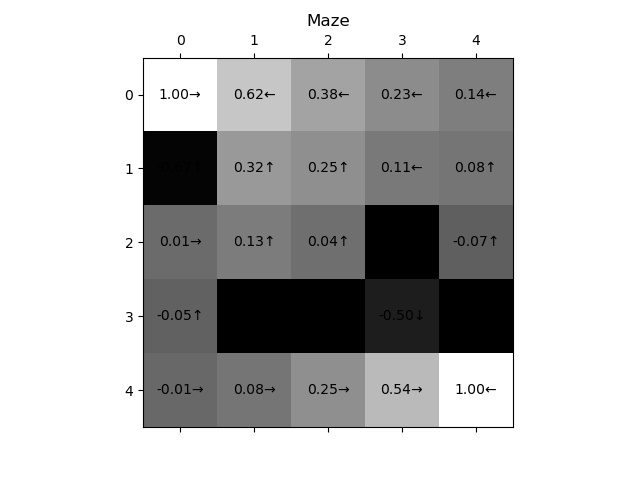
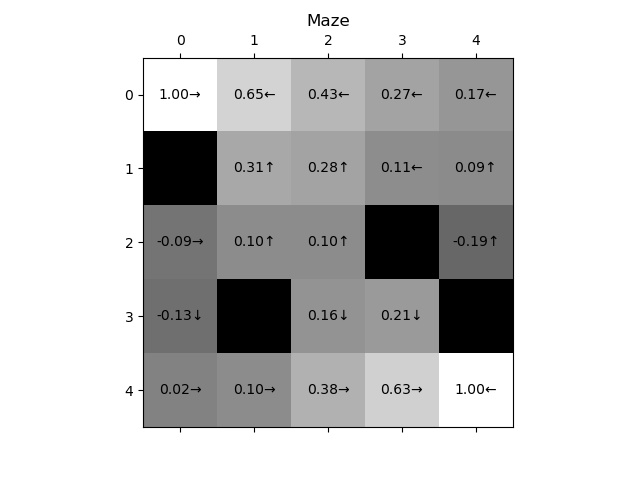
removed illegal moves and removed bugs related to local maxima

diff --git a/maze.py b/maze.py
@@ -13,10 +13,12 @@ class cardinals:
 
 class Maze:
 
-    def __init__(self, values, policy, discount_factor):
+    def __init__(self, values, policy, discount_factor, reward_val, punish_val):
         # check to see if direction is a wall
         self.values = values
         self.valuesPrev = None
+        self.reward_val = reward_val
+        self.punish_val = punish_val
 
         # initialize the policy grid to default values
         self.policyGrid = policy
@@ -27,103 +29,124 @@ class Maze:
         self.discount_factor = discount_factor
         self.iteration = 0
 
-    def getDirVal(self, direction):
-        row, col = direction
-        if (row < 0 or col < 0 or row >= self.row_len or col >= self.col_len):
-            return 0
-        else:
-            return values[row, col]
-
     # this calculates the value of an action, accounting for probability
-    # the probability of moving in the same direction as an action is .7
-    # the other directions will be .1
+    def calc_action_value_iter(self, direction, legal_dirs):
 
-    def calc_action_value_iter(self, direction, dir_vals):
-        (n_val, e_val, s_val, w_val) = dir_vals
-        if direction == cardinals.NORTH:
-            return n_val * 0.7 + e_val * 0.1 + s_val * 0.1 + w_val * 0.1
-        if direction == cardinals.EAST:
-            return n_val * 0.1 + e_val * 0.7 + s_val * 0.1 + w_val * 0.1
-        if direction == cardinals.SOUTH:
-            return n_val * 0.1 + e_val * 0.1 + s_val * 0.7 + w_val * 0.1
-        if direction == cardinals.WEST:
-            return n_val * 0.1 + e_val * 0.1 + s_val * 0.1 + w_val * 0.7
+        main_dir_val = legal_dirs[direction]
+
+        other_legal_dirs = dict(legal_dirs)
+        other_legal_dirs.pop(direction)
+        other_dir_vals = other_legal_dirs.values()
+        n_other_dirs = len(other_legal_dirs)
+
+        # probability of moving in main direction vs other directions
+        main_dir_prob = .7
+        secondary_dir_prob = .3 / n_other_dirs
+
+        other_sum = 0
+        for x in other_dir_vals:
+            other_sum = other_sum + (x * secondary_dir_prob)
+
+        return main_dir_val * main_dir_prob + other_sum
+
+    # append to a dictionary the value of a legal action
+    # also checks for validity of action
+    def get_dir_val(self, t1, direction, legal_dirs):
+        row_t1, col_t1 = t1
+        if (row_t1 < 0 or col_t1 < 0 or row_t1 >= self.row_len or col_t1 >= self.col_len):
+            # Illegal move. nothing appended
+            return legal_dirs
+        else:
+            # update the dict properly
+            legal_dirs[direction] = values[row_t1, col_t1]
+            return legal_dirs
 
     # inspect all four directions for values
     def get_dir_vals(self, row, col):
+
         north_grid = (row - 1, col)
         east_grid = (row, col + 1)
         south_grid = (row + 1, col)
         west_grid = (row, col - 1)
 
-        n_val = self.getDirVal(north_grid)
-        e_val = self.getDirVal(east_grid)
-        s_val = self.getDirVal(south_grid)
-        w_val = self.getDirVal(west_grid)
+        # track legal direction moves and return it as a dict
+        legal_dirs = dict.fromkeys(
+            [cardinals.NORTH, cardinals.EAST, cardinals.SOUTH, cardinals.WEST])
 
-        return (n_val, e_val, s_val, w_val)
+        legal_dirs = self.get_dir_val(north_grid, cardinals.NORTH, legal_dirs)
+        legal_dirs = self.get_dir_val(east_grid, cardinals.EAST, legal_dirs)
+        legal_dirs = self.get_dir_val(south_grid, cardinals.SOUTH, legal_dirs)
+        legal_dirs = self.get_dir_val(west_grid, cardinals.WEST, legal_dirs)
+
+        # elimate the Nones
+        legal_dirs = {k: v for k, v in legal_dirs.items() if v is not None}
+
+        return legal_dirs
 
     # see which direction has the max value
-    def get_best_direction(self, dir_vals):
+    def get_best_direction(self, legal_dirs):
 
-        (n_val, e_val, s_val, w_val) = dir_vals
-
-        max_val = max(n_val, e_val, s_val, w_val)
-        best_direction = None
-
-        if (max_val == n_val):
-            best_direction = cardinals.NORTH
-        if (max_val == e_val):
-            best_direction = cardinals.EAST
-        if (max_val == s_val):
-            best_direction = cardinals.SOUTH
-        if (max_val == w_val):
-            best_direction = cardinals.WEST
-
+        best_direction = max(legal_dirs, key=legal_dirs.get)
         return best_direction
 
-    def update_cell_val(self, row, col, policyIterate=False):
+    # get direction from POLICY, not values
+    def update_cell_val_by_policy(self, row, col):
 
-        # do not run the code on the reward/loss cells
-        if self.values[row, col] <= -.5 or self.values[row, col] == 1:
+        if self.values[row, col] in (self.punish_val, self.reward_val):
             return
 
-        dir_vals = self.get_dir_vals(row, col)
+        # get values in each direction based off of iterating values
+        legal_dirs = self.get_dir_vals(row, col)
 
-        if policyIterate is False:
-            best_direction = self.get_best_direction(dir_vals)
-            # update section
-            self.values[row, col] = self.calc_action_value_iter(
-                best_direction, dir_vals) * self.discount_factor
-        else:  # policyIterate is True
-            # get direction from POLICY, not values
-            # then do the action using a different cal_action-value
-            cell_policy_dir = self.policyGrid[row, col]
-            cell_val = self.calc_action_value_iter(cell_policy_dir, dir_vals)
+        # then take the action based off iterating policy
+        cell_policy_dir = self.policyGrid[row, col]
 
-            # updated the values based on the policy
-            self.values[row, col] = cell_val * self.discount_factor
+        # update values based off of iteration
+        self.values[row, col] = self.calc_action_value_iter(
+            cell_policy_dir, legal_dirs) * self.discount_factor
 
-    def check_converge(self, arr1, arr2, isValPol=False):
-        if isValPol is True:
-            if (np.array_equal(arr1, arr2)):
-                print("the policy grids are the same")
+    # update cell values based off of best value
+    def update_cell_val(self, row, col):
+        # do not run the code on the reward/loss cells
+        if self.values[row, col] in (self.punish_val, self.reward_val):
+            return
+
+        # get values of each legal direction
+        legal_dirs = self.get_dir_vals(row, col)
+
+        # return best direction
+        best_direction = self.get_best_direction(legal_dirs)
+
+        # update values based off of iteration
+        self.values[row, col] = self.calc_action_value_iter(
+            best_direction, legal_dirs) * self.discount_factor
+
+    # check convergence of policy
+    def check_converge_policy(self, arr1, arr2):
+        if (np.array_equal(arr1, arr2)):
+            print("the policy grids are the same")
+            return True
+        else:
+            print("the policy grids are NOT the same")
+            return False
+
+    # check convergence of value
+    def check_converge_values(self, arr1, arr2):
+        if arr2 is not None:
+            if (np.allclose(arr1, arr2, 0.001)):
+                print("the value grids are the same")
                 return True
             else:
-                print("the policy grids are NOT the same")
                 return False
-
-        elif (np.allclose(arr1, arr2, 0.01)):
-            print("the value grids are the same")
-            return True
         else:
             print("the value grids are NOT the same")
             return False
 
+    # value iteration main loop
     def valueIteration(self):
-        self.valuesPrev = np.zeros((5, 5))
-
-        while self.check_converge(self.values, self.valuesPrev) is False:
+        while self.check_converge_values(self.values, self.valuesPrev) is False:
+            print("value iteration " + str(self.iteration))
+            print(self.values)
 
             # store previous values
             self.valuesPrev = np.copy(self.values)
@@ -132,36 +155,33 @@ class Maze:
                 for col in range(self.col_len):
                     self.update_cell_val(row, col)
 
-            print("iteration " + str(self.iteration))
             self.iteration = self.iteration + 1
 
-        print(self.values)
+    # policy iteration main loop
+    def policyIteration(self):
 
-    # gets the policy once the valuation has converged
+        while self.check_converge_policy(self.policyGrid, self.policyGridPrev) is False:
+            print("policy iteration " + str(self.iteration))
+            print(self.policyGrid)
 
-    def valuePolicyIteration(self):
-
-        print(self.policyGrid, self.policyGridPrev)
-
-        while self.check_converge(self.policyGrid, self.policyGridPrev, isValPol=True) is False:
-
+            # copy of previous grid to check comparison
             self.policyGridPrev = np.copy(self.policyGrid)
 
+            # edit each cell
             for row in range(self.row_len):
                 for col in range(self.col_len):
-                    # True triggers the policy/val iter
-                    # This means we will take the action based off initial random policy
-                    self.update_cell_val(row, col, True)
+                    self.update_cell_val_by_policy(row, col)
                     dir_vals = self.get_dir_vals(row, col)
+
                     self.policyGrid[row, col] = self.get_best_direction(
                         dir_vals)
 
-            print("reached")
-            print("iteration " + str(self.iteration))
             self.iteration = self.iteration + 1
-        print(self.policyGrid)
 
+    # extract the policy after value or policy iteration
     def extractPolicy(self):
+
+        # look in each of the grids for best direction and return it
         self.policyGrid = np.empty((5, 5), dtype=object)
         for row in range(self.row_len):
             for col in range(self.col_len):
@@ -171,31 +191,36 @@ class Maze:
         return self.policyGrid
 
 
+''' MAIN CODE '''
 # Manual setup of the maze.
 values = np.zeros((5, 5))
-values[0, 0] = 1  # the complation
-values[1, 0] = -.67  # the termination
-values[3, 1] = -.7
-values[3, 2] = -.7
-values[2, 3] = -.7
-values[3, 4] = -.7
-values[4, 4] = 1
+
+# custom rewards
+reward_val = 1
+punish_val = -1
+values[0, 0] = reward_val
+values[4, 4] = reward_val
+values[1, 0] = punish_val
+values[3, 1] = punish_val
+values[2, 3] = punish_val
+values[3, 4] = punish_val
 
 policy = np.ndarray((5, 5), dtype=object)
 policy.fill(cardinals.NORTH)
-print(policy)
-print("main code")
+policy[0] = [cardinals.SOUTH] * 5
+
 discount_factor = 0.8
 
-grid = Maze(values, policy, discount_factor)
+grid = Maze(values, policy, discount_factor, reward_val, punish_val)
+
+# Select value or policy iteration here
 # grid.valueIteration()
-grid.valuePolicyIteration()
+grid.policyIteration()
+
 policy = grid.extractPolicy()
 
-print(policy)
-
+''' PLOTTING CODE '''
 fig, ax = plt.subplots()
-# Using matshow here just because it sets the ticks up nicely. imshow is faster.
 ax.matshow(values, cmap='binary_r')
 
 for (i, j), z in np.ndenumerate(values):
@@ -203,5 +228,3 @@ for (i, j), z in np.ndenumerate(values):
 
 plt.title("Maze")
 plt.show()
-
-# something with the anaconda powershell prompt anaconda3, and the Z drive mounting allowed me to run the anaconda env with python in wsl
